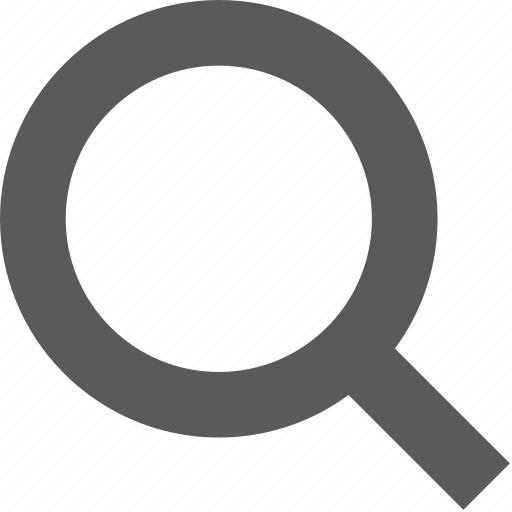
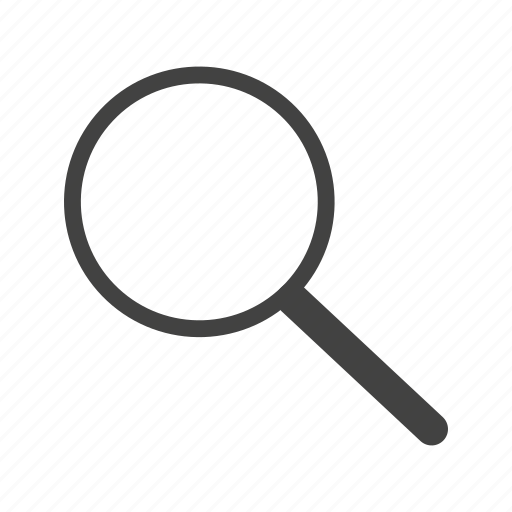
n

diff --git a/home.css b/home.css
@@ -1,4 +1,5 @@
 @import url('https://fonts.googleapis.com/css2?family=Poppins:ital,wght@0,100;0,200;0,300;0,400;0,500;0,600;0,700;0,800;0,900;1,100;1,200;1,300;1,400;1,500;1,600;1,700;1,800;1,900&display=swap');
+@import url('https://fonts.googleapis.com/css2?family=Outfit:wght@100..900&display=swap') ;
 header{
     z-index: 1;
     margin-right: 15px;
@@ -28,15 +29,17 @@ header{
     .titl{
         text-align: center;
         position: relative;
-        top: 15px;
+        bottom: 5px;
         right: 33px;
+        color: white;
+        font-family: "Poppins", sans-serif;
+        font-size: 60px;
     }
     .foot{
         color: aliceblue;
         position: fixed;
         bottom: 0px;
         background-color: rgb(98, 71, 40);
-        
         width: 100%;
         float: left;
         font-family: "Poppins", sans-serif;
@@ -48,12 +51,45 @@ body{
 }
 .search{
     display: grid;
-    grid-row: 45px;
-    grid-template-columns: 15px 75px ;
-    border: solid red;
+    grid-row: 100px;
+    grid-template-columns: 15px auto ;
+    /* border: solid red; */
     width: 500px;
+    position: relative;
+    left: 460px;
+    top: 150px;
+    border: solid black 2px;
+    border-radius: 50px;
+    column-gap: 10px;
 }
-.seary{
-    width: 85px;
+/* .seary{
+    width: 350px;
+} */
+input{
+    width: 400px;
+    background-color: transparent;
+    border: 0px;
+    height: 30px;
+    color: white;
+    font-family: "Outfit", sans-serif;
+    font-size: 15px;
+    /* height: 20px;
+    border-radius: 50px; */
 }
-    
+/* img{
+    height: 15px;
+} */
+body{
+    background-image: url(cookie.webp);
+}
+input:active{
+    border: 0px;
+}
+.log{
+    top: -6px;
+    ; font-size: xx-large; 
+    color: white;
+}
+.sear{cursor: pointer;
+
+}

diff --git a/home.html b/home.html
@@ -6,7 +6,7 @@
 </head>
 <body>
     <header class="navigate">
-        <div class="logo" style="top: -6px;; font-size: xx-large;">Doughtopia</div>
+        <div id="log" style="top: -6px;; font-size: xx-large; color: white;">Doughtopia</div>
         <div><a href="#" >Gallery</a></div>
         <div><a href="#" > Services </a></div>
         <div><a href="#" > Order </a></div>
@@ -15,9 +15,9 @@
         <footer class="foot">ex.</footer>
         <div class="search">
             <div class="sear">
-                <img src="search.webp" style="height: 15px;">
+                <img src="search.webp" class="sear" style="height: 25px;">
             </div>
-            <div class="seary" > <input type="text"></div>
+            <div class="seary" > <input type="search" placeholder="Search"></div>
         </div>
 </body>
 </html>
